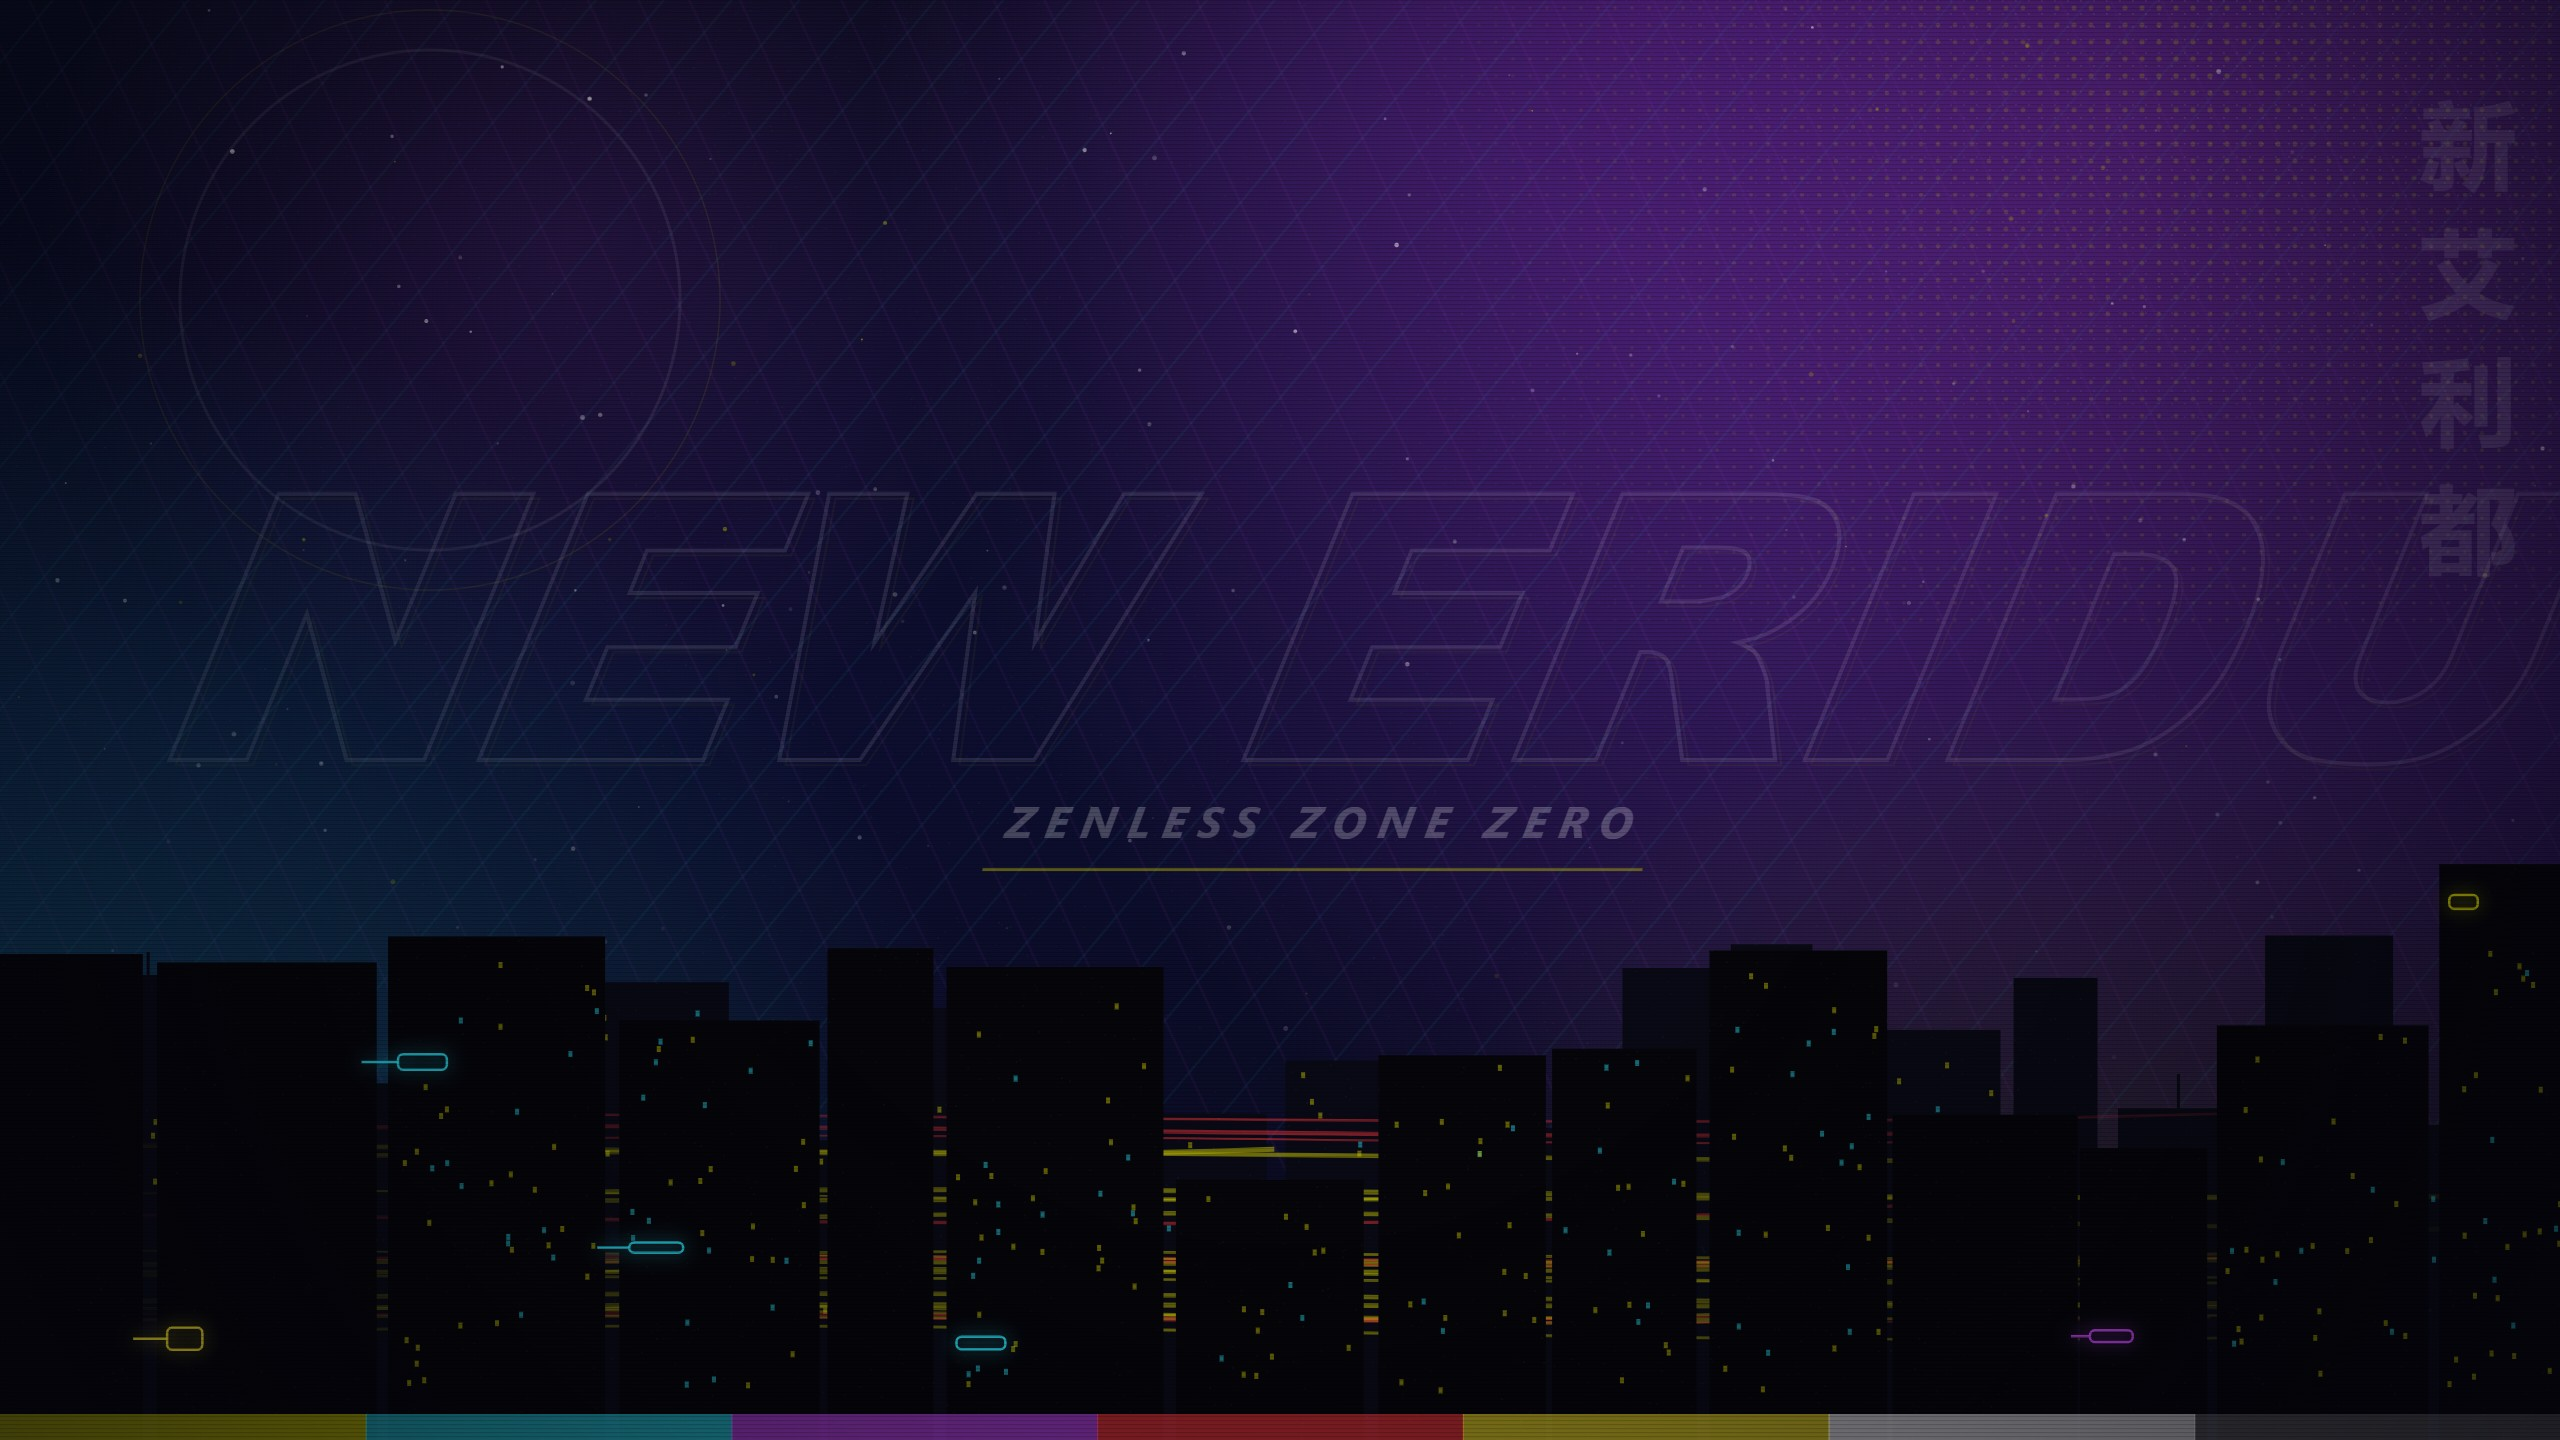
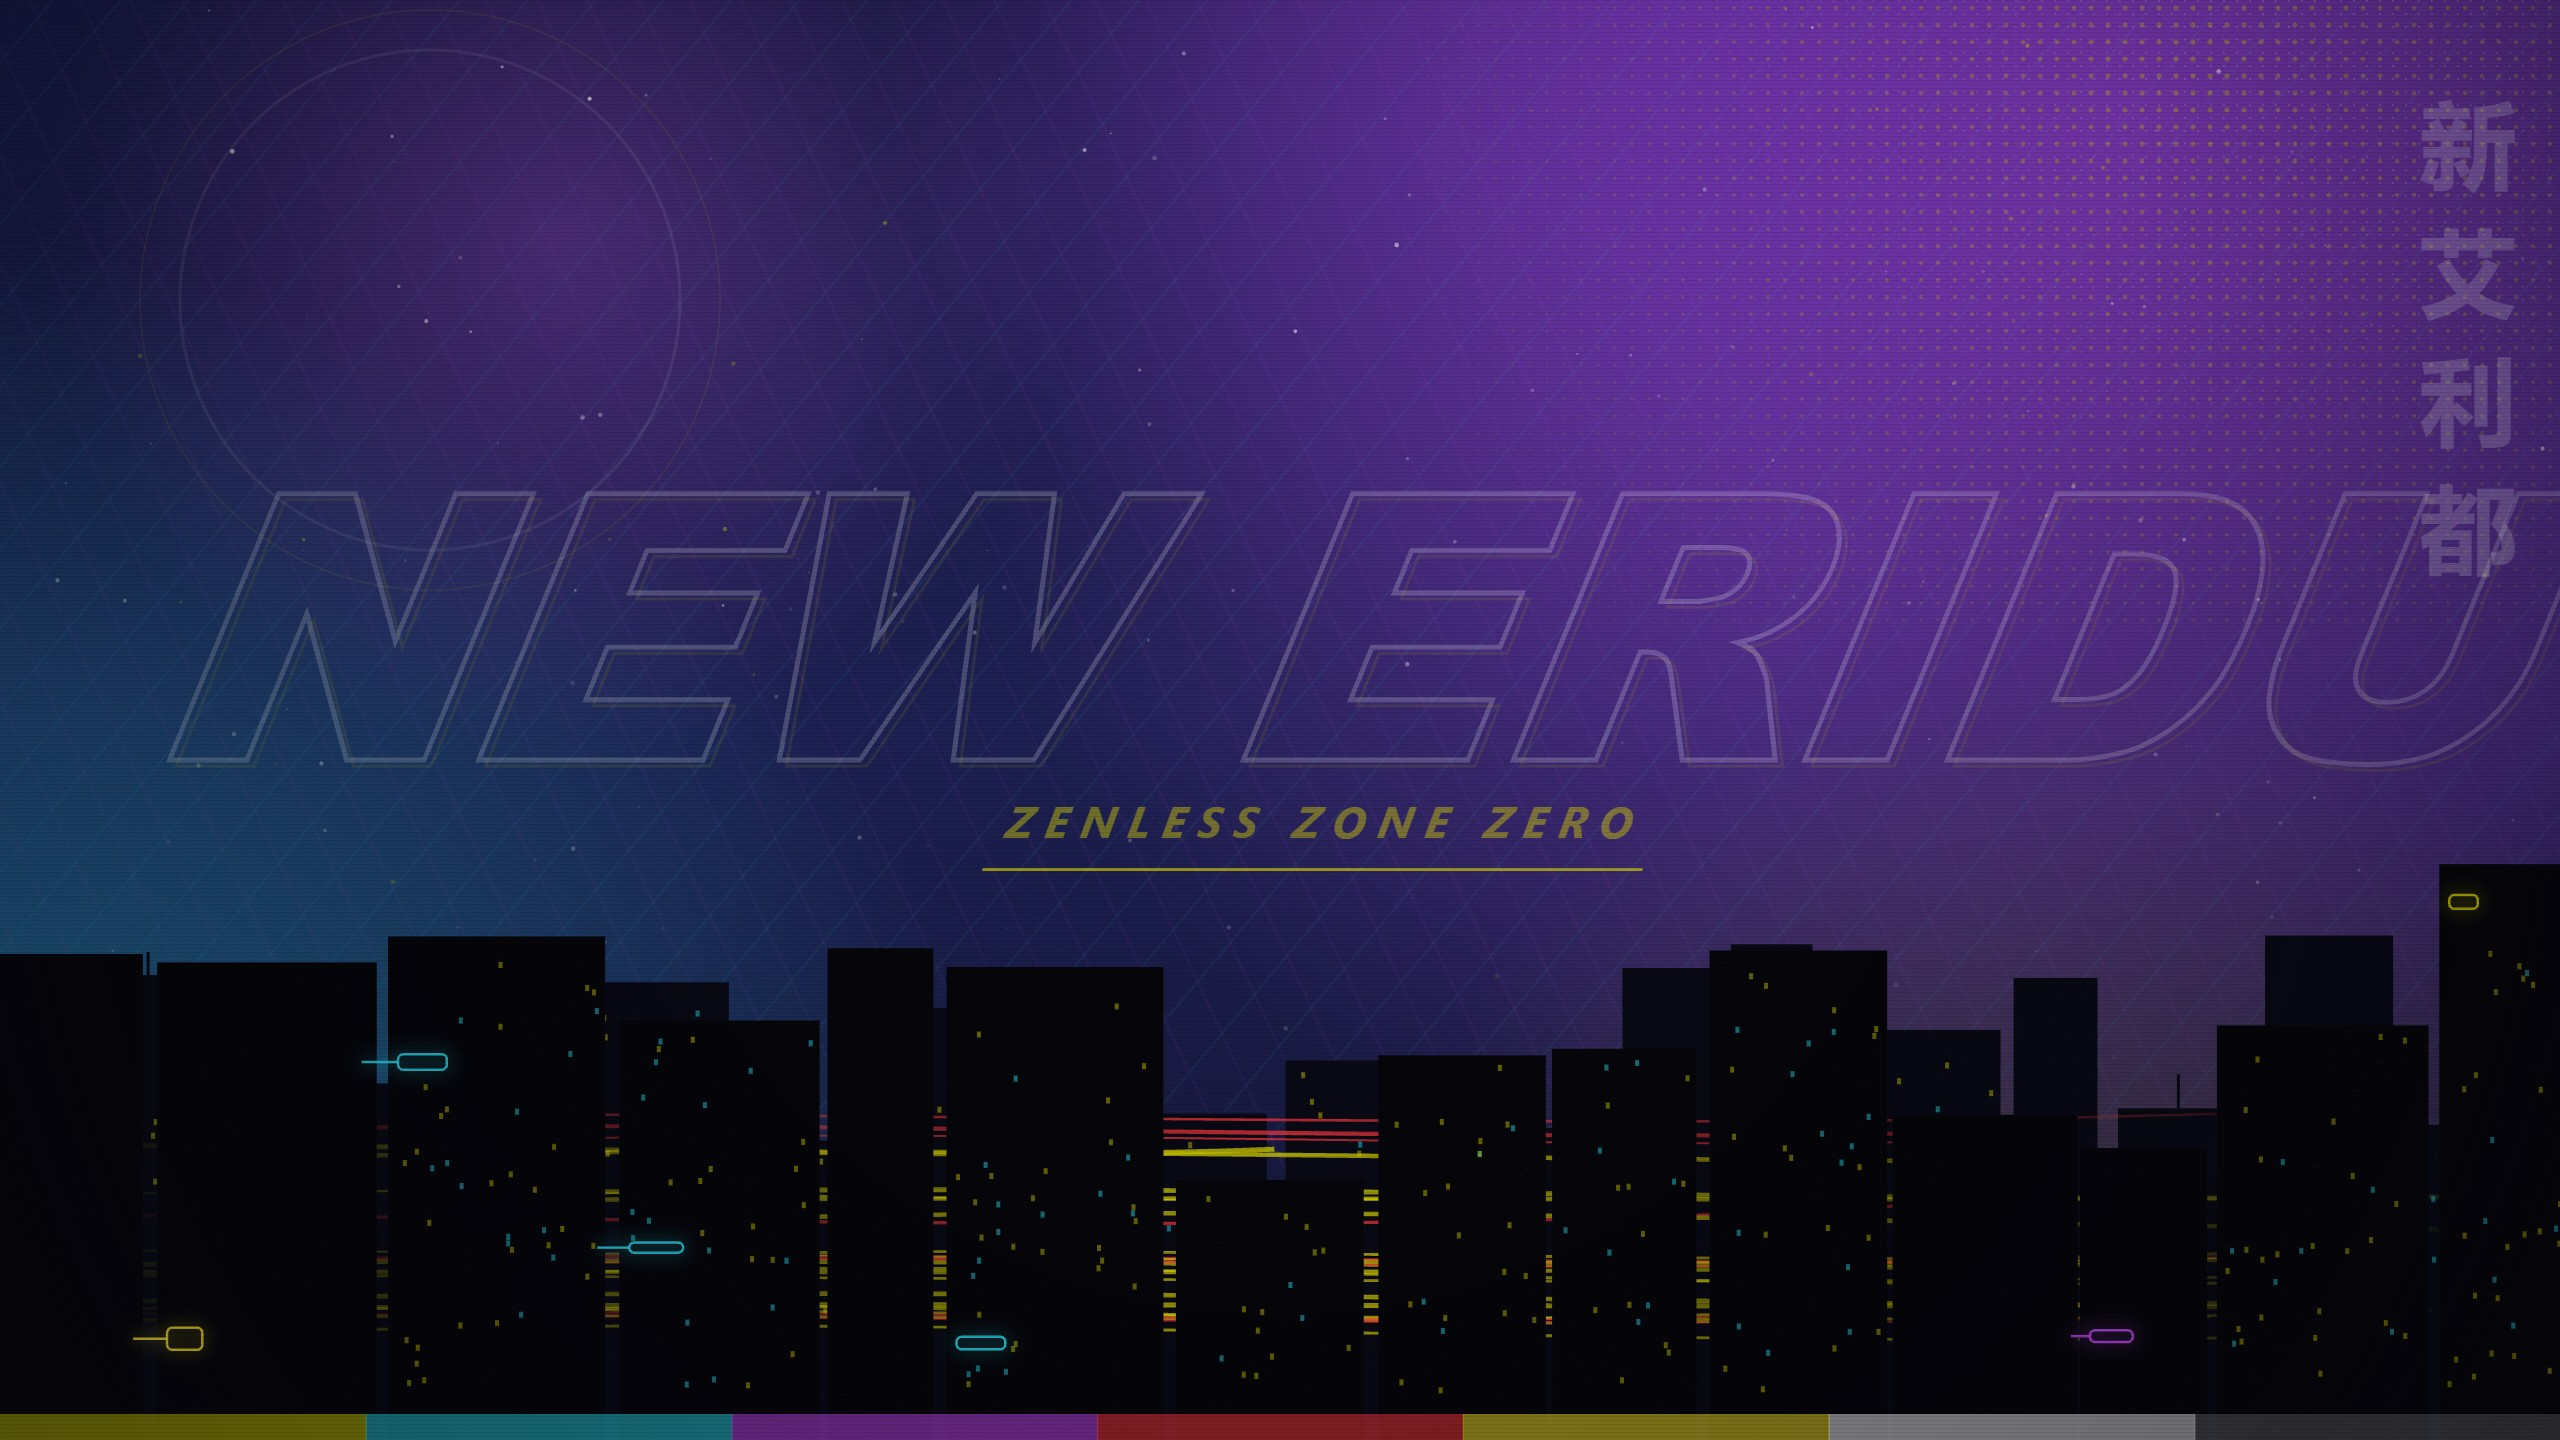
feat(v5.5): 壁纸 V2 提亮重渲染（底色/星云/描边/光轨全面上调）+ scrim 0.10/0.22/0.34——无提亮直出可辨原图样式

diff --git a/tools/wallpaper-art.html b/tools/wallpaper-art.html
@@ -5,14 +5,14 @@ const W = 2560, H = 1440;
 let seed = 42; const rnd = () => { seed = (seed * 1664525 + 1013904223) >>> 0; return seed / 4294967296; };
 const rg = (a, b) => a + rnd() * (b - a);
 // 1 base
-let g = x.createLinearGradient(0, 0, 0, H); g.addColorStop(0, '#0b0d22'); g.addColorStop(.5, '#0d0e30'); g.addColorStop(1, '#090a1c'); x.fillStyle = g; x.fillRect(0, 0, W, H);
+let g = x.createLinearGradient(0, 0, 0, H); g.addColorStop(0, '#171a44'); g.addColorStop(.5, '#1d2052'); g.addColorStop(1, '#131534'); x.fillStyle = g; x.fillRect(0, 0, W, H);
 // 2 nebula
 const neb = (cx, cy, r, col, a) => { const ng = x.createRadialGradient(cx, cy, 0, cx, cy, r); ng.addColorStop(0, col.replace('%A', a)); ng.addColorStop(1, col.replace('%A', 0)); x.fillStyle = ng; x.fillRect(cx - r, cy - r, r * 2, r * 2); };
-neb(2120, 120, 1250, 'rgba(168,60,220,%A)', .5);
-neb(1720, -60, 850, 'rgba(120,40,190,%A)', .34);
-neb(-120, 1380, 1150, 'rgba(28,160,190,%A)', .44);
-neb(2080, 1380, 720, 'rgba(212,207,1,%A)', .1);
-neb(560, 240, 520, 'rgba(190,70,235,%A)', .16);
+neb(2120, 120, 1250, 'rgba(178,72,235,%A)', .66);
+neb(1720, -60, 850, 'rgba(140,60,215,%A)', .5);
+neb(-120, 1380, 1150, 'rgba(38,185,215,%A)', .6);
+neb(2080, 1380, 720, 'rgba(212,207,1,%A)', .16);
+neb(560, 240, 520, 'rgba(205,90,245,%A)', .3);
 // 3 sparks
 for (let i = 0; i < 170; i++) { const px = rg(0, W), py = rg(0, H * .75), r2 = rg(.6, 2.4), a2 = rg(.15, .7) * (1 - py / H); x.fillStyle = rnd() < .22 ? 'rgba(212,207,1,' + a2 + ')' : 'rgba(255,255,255,' + a2 + ')'; x.beginPath(); x.arc(px, py, r2, 0, 7); x.fill(); }
 // 11 hollow ring
@@ -21,13 +21,13 @@ x.strokeStyle = 'rgba(212,207,1,0.1)'; x.lineWidth = 1.5; x.beginPath(); x.arc(4
 // 7 ribbons
 x.save(); x.globalAlpha = .06; x.translate(W / 2, H / 2); x.rotate(65 * Math.PI / 180); x.fillStyle = '#be46eb'; for (let i = -30; i < 30; i++) x.fillRect(-1600, i * 46, 3200, 2.4); x.rotate(-115 * Math.PI / 180); x.fillStyle = '#28d1e4'; for (let i = -30; i < 30; i++) x.fillRect(-1600, i * 52, 3200, 2.2); x.restore();
 // 6 halftone top-right
-for (let gy = 0; gy < 620; gy += 17) for (let gx = 1420; gx < W; gx += 17) { const d = Math.hypot(gx - 2180, gy - 60) / 900; if (d < 1) { const a3 = (1 - d) * .5; x.fillStyle = 'rgba(212,207,1,' + (a3 * .55) + ')'; x.beginPath(); x.arc(gx + 8, gy + 8, 2.6 * (1 - d * .5), 0, 7); x.fill(); } }
-for (let gy = 0; gy < 420; gy += 13) for (let gx = 1560; gx < W; gx += 13) { const d = Math.hypot(gx - 2300, gy - 0) / 800; if (d < 1) { x.fillStyle = 'rgba(255,255,255,' + ((1 - d) * .18) + ')'; x.fillRect(gx, gy, 1.6, 1.6); } }
+for (let gy = 0; gy < 620; gy += 17) for (let gx = 1420; gx < W; gx += 17) { const d = Math.hypot(gx - 2180, gy - 60) / 900; if (d < 1) { const a3 = (1 - d) * .5; x.fillStyle = 'rgba(212,207,1,' + (a3 * .8) + ')'; x.beginPath(); x.arc(gx + 8, gy + 8, 2.6 * (1 - d * .5), 0, 7); x.fill(); } }
+for (let gy = 0; gy < 420; gy += 13) for (let gx = 1560; gx < W; gx += 13) { const d = Math.hypot(gx - 2300, gy - 0) / 800; if (d < 1) { x.fillStyle = 'rgba(255,255,255,' + ((1 - d) * .28) + ')'; x.fillRect(gx, gy, 1.6, 1.6); } }
 // 4 far skyline
 const win = (bx, by, bw, bh) => { const n = Math.floor(bw * bh / 2600); for (let i = 0; i < n; i++) { x.fillStyle = rnd() < .3 ? 'rgba(40,209,228,.5)' : 'rgba(212,207,1,.45)'; x.fillRect(bx + rg(6, bw - 10), by + rg(8, bh - 12), 4, 6); } };
 let cx2 = -40; while (cx2 < W) { const bw = rg(70, 170), bh = rg(120, 400), by = H - 120 - bh; x.fillStyle = '#080914'; x.fillRect(cx2, by, bw, bh + 200); if (rnd() < .5) win(cx2, by, bw, bh); if (rnd() < .35) { x.strokeStyle = '#080914'; x.lineWidth = 3; x.beginPath(); x.moveTo(cx2 + bw / 2, by); x.lineTo(cx2 + bw / 2, by - rg(20, 70)); x.stroke(); } cx2 += bw + rg(4, 30); }
 // 10 light trails
-for (let i = 0; i < 26; i++) { const ty = rg(H - 330, H - 90); const tg = x.createLinearGradient(0, ty, W, ty); const lime = rnd() < .6; const col = lime ? '212,207,1' : '242,52,58'; tg.addColorStop(0, 'rgba(' + col + ',0)'); tg.addColorStop(.5, 'rgba(' + col + ',.5)'); tg.addColorStop(1, 'rgba(' + col + ',0)'); x.strokeStyle = tg; x.lineWidth = rg(2, 5); x.beginPath(); const x0 = rg(-200, W * .3), x1 = x0 + rg(W * .5, W); x.moveTo(x0, ty); x.bezierCurveTo(x0 + (x1 - x0) * .3, ty - rg(0, 26), x0 + (x1 - x0) * .7, ty + rg(0, 26), x1, ty + rg(-12, 12)); x.stroke(); }
+for (let i = 0; i < 26; i++) { const ty = rg(H - 330, H - 90); const tg = x.createLinearGradient(0, ty, W, ty); const lime = rnd() < .6; const col = lime ? '212,207,1' : '242,52,58'; tg.addColorStop(0, 'rgba(' + col + ',0)'); tg.addColorStop(.5, 'rgba(' + col + ',.75)'); tg.addColorStop(1, 'rgba(' + col + ',0)'); x.strokeStyle = tg; x.lineWidth = rg(2, 5); x.beginPath(); const x0 = rg(-200, W * .3), x1 = x0 + rg(W * .5, W); x.moveTo(x0, ty); x.bezierCurveTo(x0 + (x1 - x0) * .3, ty - rg(0, 26), x0 + (x1 - x0) * .7, ty + rg(0, 26), x1, ty + rg(-12, 12)); x.stroke(); }
 // 5 near skyline + neon
 cx2 = -60; while (cx2 < W) { const bw = rg(90, 220), bh = rg(200, 560), by = H - 40 - bh; x.fillStyle = '#05050a'; x.fillRect(cx2, by, bw, bh + 120); if (rnd() < .55) win(cx2, by, bw, bh); if (rnd() < .5) { const sy = by + rg(20, Math.max(30, bh - 60)), sw = rg(24, 60), sh = rg(10, 26); const col2 = [
   ['rgba(212,207,1,', ')'], ['rgba(40,209,228,', ')'], ['rgba(190,70,235,', ')'], ['rgba(239,218,39,', ')']
@@ -35,22 +35,22 @@ cx2 = -60; while (cx2 < W) { const bw = rg(90, 220), bh = rg(200, 560), by = H -
 // 8 BIG TYPE
 x.save(); x.translate(1330, 760); x.transform(1, 0, -0.16, 1, 0, 0);
 x.font = '900 italic 372px "Arial Black", "Segoe UI", sans-serif'; x.textAlign = 'center';
-x.strokeStyle = 'rgba(255,255,255,0.1)'; x.lineWidth = 4; x.strokeText('NEW ERIDU', 0, 0);
-x.strokeStyle = 'rgba(212,207,1,0.05)'; x.lineWidth = 2; x.strokeText('NEW ERIDU', 7, 5);
-x.font = '700 italic 44px "Segoe UI", sans-serif'; x.fillStyle = 'rgba(255,255,255,0.24)';
+x.strokeStyle = 'rgba(255,255,255,0.2)'; x.lineWidth = 5; x.strokeText('NEW ERIDU', 0, 0);
+x.strokeStyle = 'rgba(212,207,1,0.1)'; x.lineWidth = 3; x.strokeText('NEW ERIDU', 8, 6);
+x.font = '700 italic 44px "Segoe UI", sans-serif'; x.fillStyle = 'rgba(255,255,255,0.4);'
 const tag = 'Z E N L E S S   Z O N E   Z E R O'; x.fillText(tag, 0, 78);
-x.fillStyle = 'rgba(212,207,1,0.4)'; x.fillRect(-330, 108, 660, 3);
+x.fillStyle = 'rgba(212,207,1,0.65)'; x.fillRect(-330, 108, 660, 3);
 x.restore();
 // 9 vertical kanji
-x.save(); x.font = '900 96px "Microsoft YaHei", sans-serif'; x.fillStyle = 'rgba(255,255,255,0.12)'; x.textAlign = 'center'; const kj = '新艾利都'; let ky = 180; for (const ch of kj) { x.fillText(ch, W - 92, ky); ky += 128; } x.restore();
+x.save(); x.font = '900 96px "Microsoft YaHei", sans-serif'; x.fillStyle = 'rgba(255,255,255,0.22)'; x.textAlign = 'center'; const kj = '新艾利都'; let ky = 180; for (const ch of kj) { x.fillText(ch, W - 92, ky); ky += 128; } x.restore();
 // 12 SMPTE
 const bars = ['rgba(212,207,1,.55)', 'rgba(40,209,228,.55)', 'rgba(190,70,235,.55)', 'rgba(242,52,58,.55)', 'rgba(239,218,39,.55)', 'rgba(242,242,244,.55)', 'rgba(255,255,255,.2)'];
 for (let i = 0; i < 7; i++) { x.fillStyle = bars[i]; x.fillRect(i * W / 7, H - 26, W / 7 + 1, 26); }
 // 13 scanlines
-x.fillStyle = 'rgba(0,0,0,0.16)'; for (let sy = 0; sy < H; sy += 4) x.fillRect(0, sy, W, 1.2);
+x.fillStyle = 'rgba(0,0,0,0.09)'; for (let sy = 0; sy < H; sy += 4) x.fillRect(0, sy, W, 1.2);
 // 14 noise
-for (let i = 0; i < 5200; i++) { x.fillStyle = 'rgba(255,255,255,' + rg(.01, .045) + ')'; x.fillRect(rg(0, W), rg(0, H), 1.3, 1.3); }
+for (let i = 0; i < 2600; i++) { x.fillStyle = 'rgba(255,255,255,' + rg(.01, .045) + ')'; x.fillRect(rg(0, W), rg(0, H), 1.3, 1.3); }
 // 15 vignette
-const vg = x.createRadialGradient(W / 2, H * .44, H * .35, W / 2, H * .5, H * 1.05); vg.addColorStop(0, 'rgba(0,0,0,0)'); vg.addColorStop(1, 'rgba(3,4,12,.5)'); x.fillStyle = vg; x.fillRect(0, 0, W, H);
+const vg = x.createRadialGradient(W / 2, H * .44, H * .35, W / 2, H * .5, H * 1.05); vg.addColorStop(0, 'rgba(0,0,0,0)'); vg.addColorStop(1, 'rgba(3,4,12,.3)'); x.fillStyle = vg; x.fillRect(0, 0, W, H);
 window.__done = true;
 </script>

diff --git a/README.md b/README.md
@@ -436,3 +436,7 @@ cd .playwright-mcp && python -m http.server 8971
 1. **大飞鱼真身**：不是 Blue Fantasy，是并行工作流 01:36 装进 bundles 的 **@smalltailqwq/dsh-client-ui-skin-maid-atelier 插件**——它往会话列里塞 absolute 不透明壁纸 div（skin-assets/maid-atelier/*.webp），盖在一切皮肤之上，active 是谁它都画。已从 deps+bundles 摘除（备份 package.json.bak-20261024-remove-smalltail），dsh-web 重启后资源加载归零。
 2. **scrim 过深**：壁纸其实一直在 background 装饰层渲染，但 scrim 0.50/0.74 把它压到几乎不可见（隔离实验：隐藏应用后提亮 2.6× 才能看清）。已放宽到 0.16/0.38/0.50（底部渐深保正文）。
 3. **验证教训（铁律升级）**：DOM 挂载≠视觉可见；看小图会脑补。本轮起验证三件套：隔离截图（隐藏 .pI_x6G_frame）+ 提亮查看 + 亮度均值核对。像素相关性在低光+jpeg 量化下不灵敏，不能单独作准。
+
+## v5.5 · 壁纸提亮（2026-10-24 四轮）
+
+用户指出背景没有壁纸原图样式——V1 图太暗（mean≈30）+scrim 叠加后直出就是一片深夜色。重渲染 V2：底色/星云/大字描边/光轨/网点整体提亮（对齐原作亮紫青夜空），scrim 放宽到 0.10/0.22/0.34。验收标准改为「无提亮直出可辨」。
